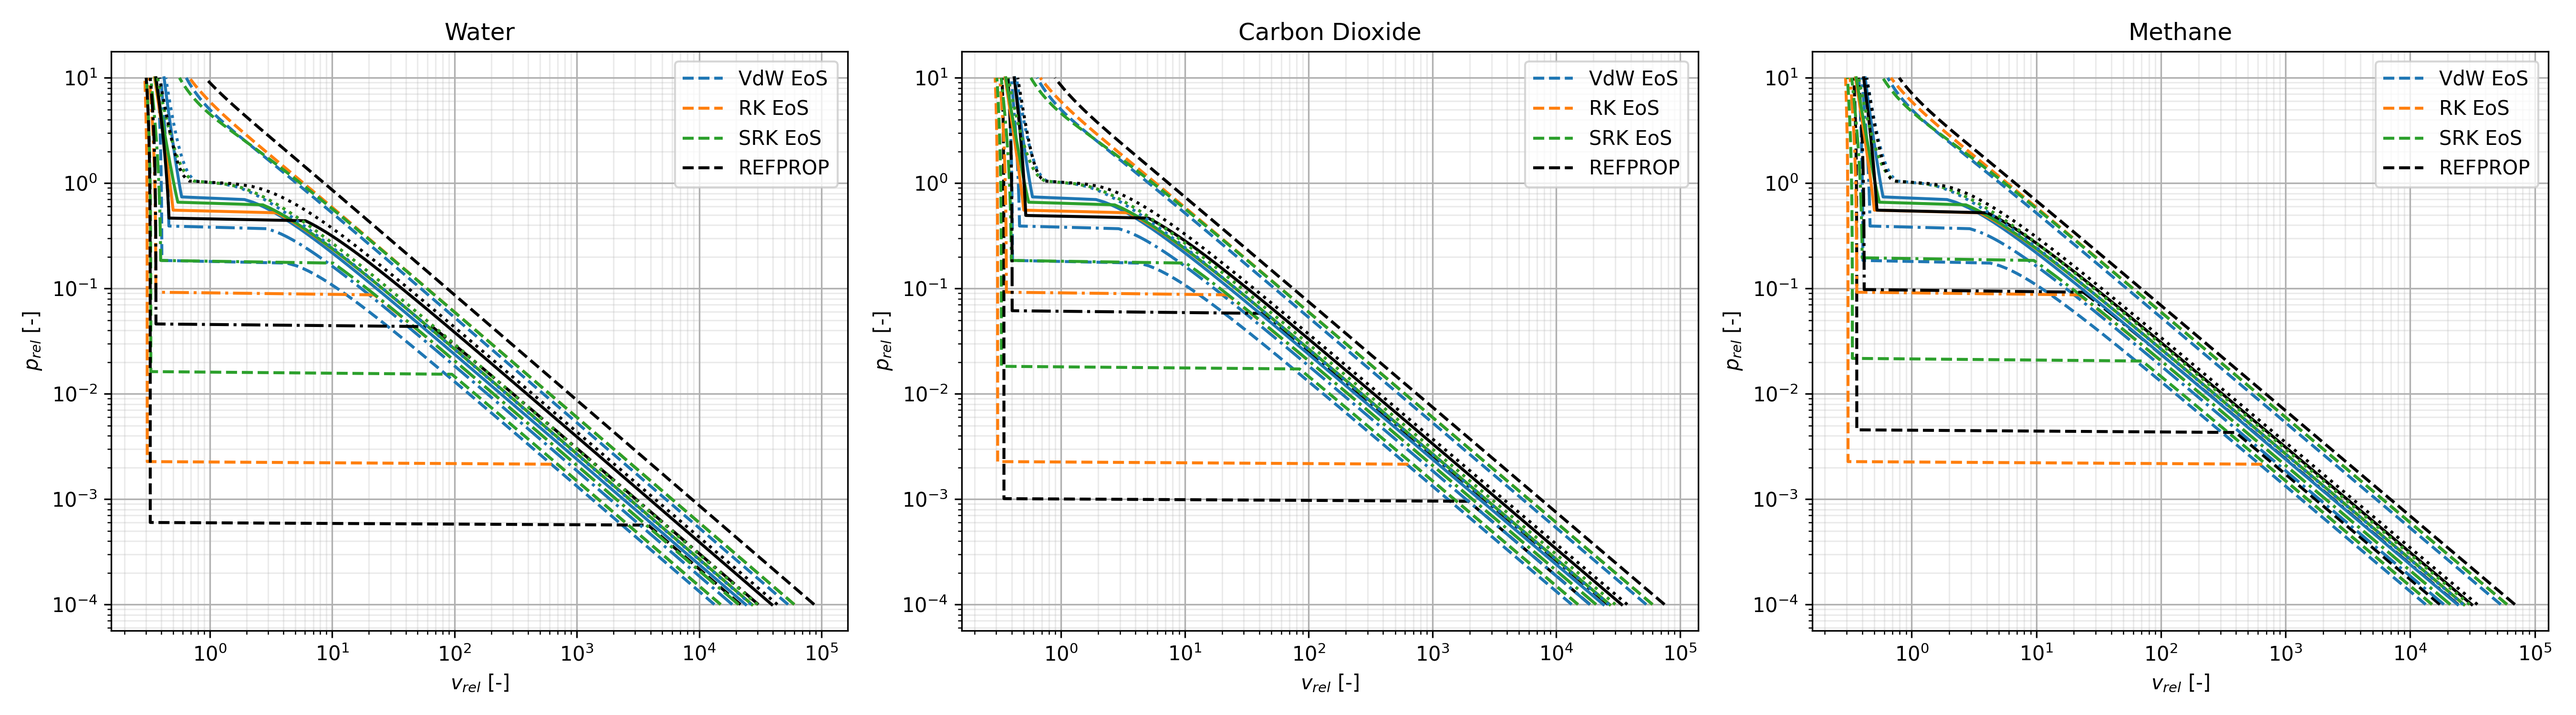
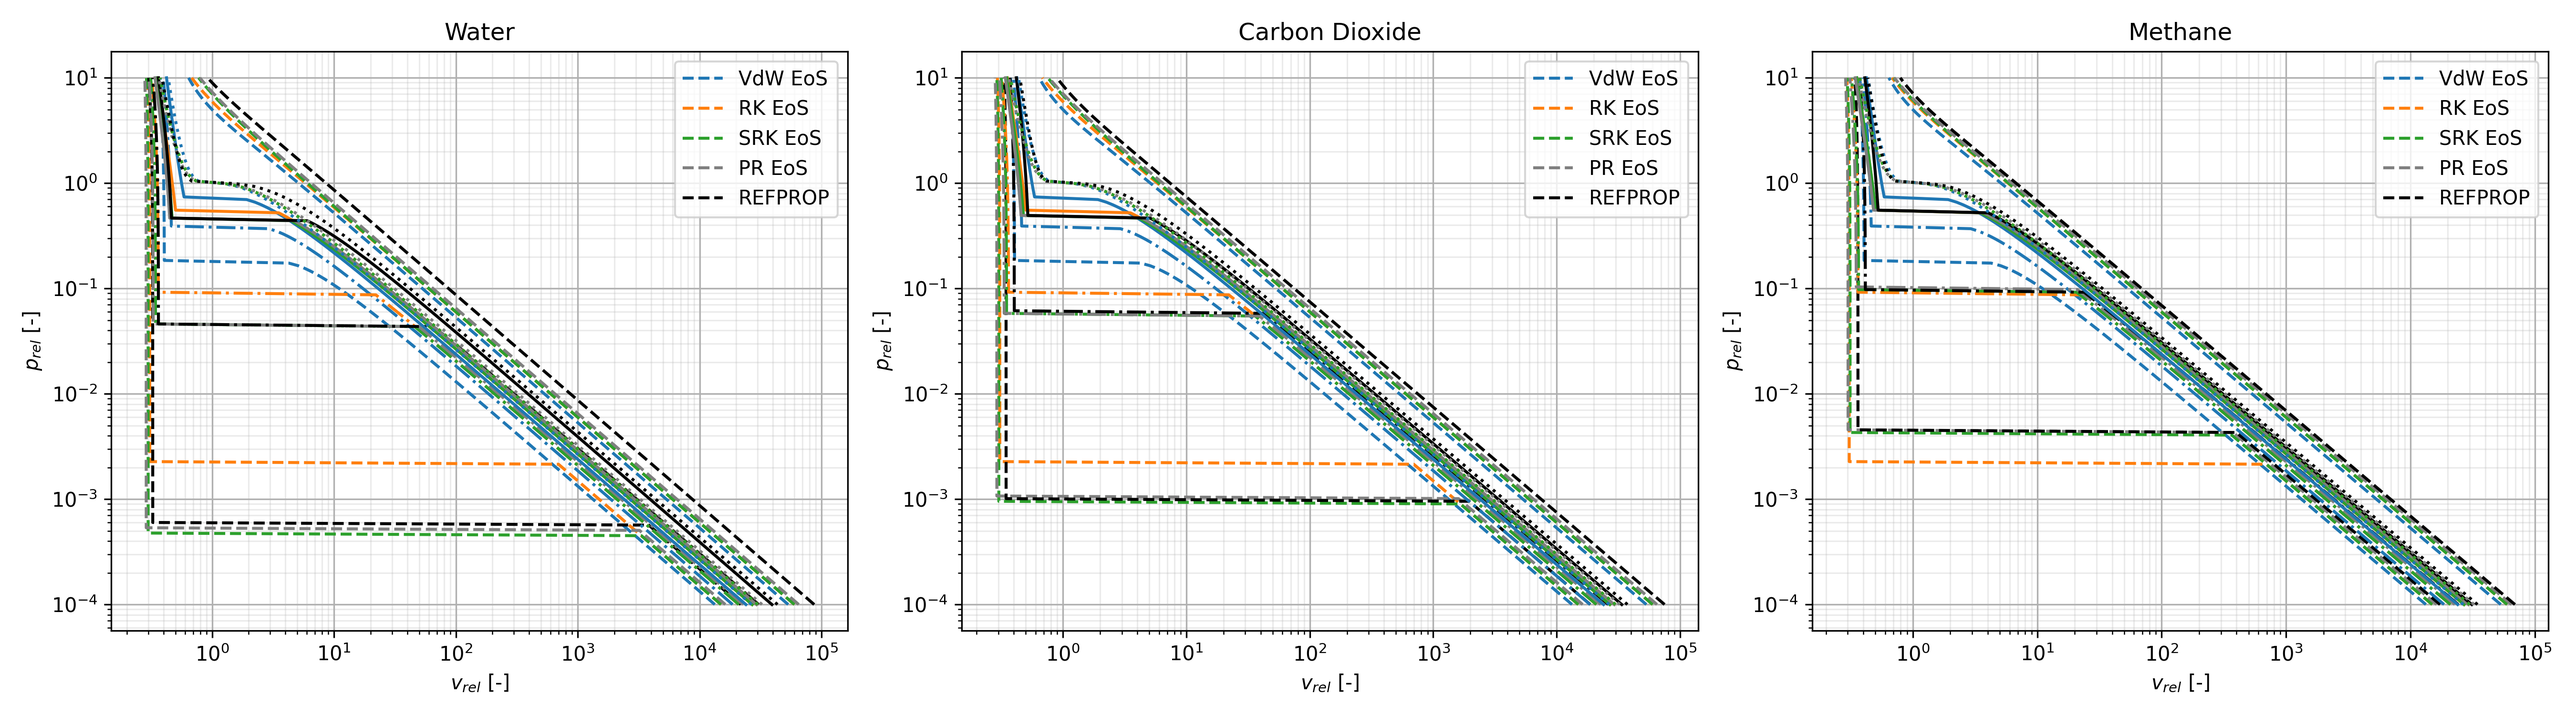
PR EoS Implemented

diff --git a/calculation/1 - EOS analysis/10 - EoS Comparison - Other.py b/calculation/1 - EOS analysis/10 - EoS Comparison - Other.py
@@ -1,7 +1,7 @@
 # %%-------------------------------------   IMPORT MODULES                      -------------------------------------> #
-from main_classes import VdWEOS, RKEOS, SRKEOS, PREOS
 from main_classes.constant import CALCULATION_DIR
 from REFPROPConnector import ThermodynamicPoint
+from main_classes import VdWEOS, RKEOS, SRKEOS
 import matplotlib.pyplot as plt
 from itertools import cycle
 from tqdm import tqdm
@@ -11,19 +11,19 @@ import os
 
 # %%-------------------------------------   INIT CALCULATIONS                   -------------------------------------> #
 n_points = 200
-t_mods = [0.5, 0.7, 0.9, 1, 2]
+t_mods = [0.5, 0.7, 0.9, 1.5, 2]
 p_rels = np.logspace(-4, 1, n_points)
 
 fluids = ["Water", "Carbon Dioxide", "Methane"]
 m_mols = [0.01801528, 0.04401, 0.01604]
 acntrs = [0.344, 0.239, 0.011]
 cps = [1864.84159, 845.846, 2230.12]
-eos_class = PREOS
+eos_class = RKEOS
 
 
 # %%-------------------------------------   CALCULATIONS                        -------------------------------------> #
 k = 0
-x_labels = ["h [kJ/kg]", "s [kJ/(kg K)]"]
+x_labels = ["R [J/(kg K)]", "cp [J/(kg K)]"]
 fig, axs = plt.subplots(len(x_labels), len(fluids), figsize=(6 * len(fluids), 5 * len(x_labels)), dpi=300)
 pbar = tqdm(desc="Calculating Points", total=n_points * len(t_mods) * len(fluids))
 
@@ -37,16 +37,22 @@ for fluid in fluids:
 
     tp.set_variable("T", t_crit)
     tp.set_variable("P", p_crit)
-    h_crit_rp = tp.get_variable("h")
-    s_crit_rp = tp.get_variable("s")
 
-    eos_fluid = eos_class(t_crit=t_crit, p_crit=p_crit, cp_ideal=cps[k], m_molar=m_mols[k], acntr=acntrs[k])
+    eos_fluid = eos_class(
+
+        t_crit=t_crit, p_crit=p_crit,
+        cp_ideal=tp.get_variable("CP0"),
+        m_molar=m_mols[k], acntr=acntrs[k]
+
+    )
     crit_state = eos_fluid.get_state(t=t_crit, p=p_crit)
 
-    for t_mod in [0.5, 0.7, 0.9, 1, 2]:
+    for t_mod in t_mods:
 
-        h_rels = np.zeros((2, n_points))
-        s_rels = np.zeros((2, n_points))
+        r_res = np.zeros((2, n_points))
+        cp_res = np.zeros((2, n_points))
+        dpdts = np.zeros((2, n_points))
+        dpdvs = np.zeros((2, n_points))
 
         t_curr = eos_fluid.t_crit * t_mod
 
@@ -56,40 +62,50 @@ for fluid in fluids:
 
             tp.set_variable("P", p_curr)
             tp.set_variable("T", t_curr)
-            h_res = tp.get_variable("h")
-            s_res = tp.get_variable("s")
             rho_res = tp.get_variable("rho")
 
             if rho_res < 0:
 
-                h_res = np.nan
-                s_res = np.nan
+                r_dag = np.nan
+                cp = np.nan
+                dpdt = np.nan
+                dpdv = np.nan
 
-            h_rels[0, i] = h_res - h_crit_rp
-            s_rels[0, i] = s_res - s_crit_rp
+            else:
+
+                dpdt = tp.get_derivative("P", "T", "rho")
+                dpdrho = tp.get_derivative("P", "rho", "T")
+                dpdv = - rho_res ** 2 * dpdrho
+
+                r_dag = (- t_curr * dpdt ** 2 / dpdv)
+                cp = (tp.get_variable("CP") - tp.get_variable("CP0"))
+
+            r_res[0, i] = r_dag
+            cp_res[0, i] = cp
+            dpdts[0, i] = dpdt
+            dpdvs[0, i] = dpdv
 
             curr_state = eos_fluid.get_state(p=p_curr, t=t_curr)
-            h_rels[1, i] = curr_state.h - crit_state.h
-            s_rels[1, i] = curr_state.s - crit_state.s
+            r_res[1, i] = curr_state.r
+            cp_res[1, i] = curr_state.cp - curr_state.fluid_solver.cp_ideal
+            dpdts[1, i] = curr_state.dpdt
+            dpdvs[1, i] = curr_state.dpdv
 
             pbar.update(1)
 
         style = next(styles)
 
-        h_rels = h_rels / 1e3
-        s_rels = s_rels / 1e3
-        dh = h_rels[1,0] - h_rels[0, 0]
-        line_rp = axs[0, k].plot(h_rels[0,:], p_rels, label="REFPROP", linestyle=style, color="black")
-        line_eos = axs[0, k].plot(h_rels[1,:] - dh, p_rels, label="RK EoS", linestyle=style, color="tab:orange")
+        line_rp = axs[0, k].plot(r_res[0,:], p_rels, label="REFPROP", linestyle=style, color="black")
+        line_eos = axs[0, k].plot(r_res[1,:], p_rels, label="RK EoS", linestyle=style, color="tab:orange")
 
-        ds = s_rels[1, 0] - s_rels[0, 0]
-        axs[1, k].plot(s_rels[0, :], p_rels, label="REFPROP", linestyle=style, color="black")
-        axs[1, k].plot(s_rels[1, :] - ds, p_rels, label="RK EoS", linestyle=style, color="tab:orange")
+        axs[1, k].plot(cp_res[0, :], p_rels, label="REFPROP", linestyle=style, color="black")
+        axs[1, k].plot(cp_res[1, :], p_rels, label="RK EoS", linestyle=style, color="tab:orange")
 
     lines = [line_rp[0], line_eos[0]]
     labs = [l.get_label() for l in lines]
 
     for j in range(len(x_labels)):
+
         axs[j, k].set_yscale("log")
         axs[j, k].grid(visible=True, which="major")
         axs[j, k].grid(visible=True, which="minor", linewidth=0.75, alpha=0.25)
@@ -98,14 +114,20 @@ for fluid in fluids:
         axs[j, k].set_title(fluid)
         axs[j, k].legend(lines, labs)
 
+    #axs[0, k].set_xlim([0, 1e7])
+    #axs[1, k].set_xlim([0, 1e7])
+
     k += 1
 
 
 pbar.close()
+
+
+# %%-------------------------------------   SAVE PLOT                           -------------------------------------> #
 plt.tight_layout()
 plt.show()
 
 
 # %%-------------------------------------   SAVE PLOT                           -------------------------------------> #
-filepath = os.path.join(CALCULATION_DIR, "1 - EOS analysis", "output", "8 - EoS Comparison - Enthalpy and Entropy.png")
+filepath = os.path.join(CALCULATION_DIR, "1 - EOS analysis", "output", "8 - EoS Comparison - Other.png")
 fig.savefig(filepath)

diff --git a/calculation/1 - EOS analysis/7 - EoS Comparison.py b/calculation/1 - EOS analysis/7 - EoS Comparison.py
@@ -1,7 +1,7 @@
 # %%-------------------------------------   IMPORT MODULES                      -------------------------------------> #
+from main_classes import VdWEOS, RKEOS, SRKEOS, PREOS
 from main_classes.constant import CALCULATION_DIR
 from REFPROPConnector import ThermodynamicPoint
-from main_classes import VdWEOS, RKEOS, SRKEOS
 import matplotlib.pyplot as plt
 from itertools import cycle
 from tqdm import tqdm
@@ -42,11 +42,12 @@ for fluid in fluids:
     vdw_fluid = VdWEOS(t_crit=t_crit, p_crit=p_crit, cp_ideal=cps[k], m_molar=m_mols[k], acntr=acntrs[k])
     srk_fluid = SRKEOS(t_crit=t_crit, p_crit=p_crit, cp_ideal=cps[k], m_molar=m_mols[k], acntr=acntrs[k])
     rk_fluid = RKEOS(t_crit=t_crit, p_crit=p_crit, cp_ideal=cps[k], m_molar=m_mols[k], acntr=acntrs[k])
+    pr_fluid = PREOS(t_crit=t_crit, p_crit=p_crit, cp_ideal=cps[k], m_molar=m_mols[k], acntr=acntrs[k])
     k += 1
 
     for t_mod in [0.5, 0.7, 0.9, 1, 2]:
 
-        v_rels = np.zeros((4, n_points))
+        v_rels = np.zeros((5, n_points))
         t_curr = vdw_fluid.t_crit * t_mod
 
         for i in range(len(p_rels)):
@@ -64,7 +65,8 @@ for fluid in fluids:
             v_rels[0, i] = vdw_fluid.v(t=t_curr, p=p_curr) / vdw_fluid.v_crit
             v_rels[1, i] = rk_fluid.v(t=t_curr, p=p_curr) / rk_fluid.v_crit
             v_rels[2, i] = srk_fluid.v(t=t_curr, p=p_curr) / srk_fluid.v_crit
-            v_rels[3, i] = v_real / v_crit_rp
+            v_rels[3, i] = pr_fluid.v(t=t_curr, p=p_curr) / pr_fluid.v_crit
+            v_rels[4, i] = v_real / v_crit_rp
 
             pbar.update(1)
 
@@ -72,7 +74,8 @@ for fluid in fluids:
         line_vdw = ax.plot(v_rels[0,:], p_rels, label="VdW EoS", linestyle=style, color="tab:blue")
         line_rk = ax.plot(v_rels[1,:], p_rels, label="RK EoS", linestyle=style, color="tab:orange")
         line_srk = ax.plot(v_rels[2,:], p_rels, label="SRK EoS", linestyle=style, color="tab:green")
-        line_rp = ax.plot(v_rels[3,:], p_rels, label="REFPROP", linestyle=style, color="black")
+        line_pr = ax.plot(v_rels[3,:], p_rels, label="PR EoS", linestyle=style, color="tab:gray")
+        line_rp = ax.plot(v_rels[4,:], p_rels, label="REFPROP", linestyle=style, color="black")
 
     ax.set_xscale("log")
     ax.set_yscale("log")
@@ -82,7 +85,7 @@ for fluid in fluids:
     ax.set_ylabel("$p_{rel}$ [-]")
     ax.set_title(fluid)
 
-    lines = [line_vdw[0], line_rk[0], line_srk[0], line_rp[0]]
+    lines = [line_vdw[0], line_rk[0], line_srk[0], line_pr[0], line_rp[0]]
     labs = [l.get_label() for l in lines]
     ax.legend(lines, labs)
 

diff --git a/main_classes/cubic_eos.py b/main_classes/cubic_eos.py
@@ -593,7 +593,7 @@ class FluidState:
 
         if self.__r is None:
 
-            self.__r = - self.__t * self.dpdt ** 2 / self.dpdv
+            self.__r = (- self.__t * self.dpdt ** 2 / self.dpdv)
 
         return self.__r
 
@@ -639,15 +639,16 @@ class FluidState:
 
         if self.__dpdv is None:
 
-            eta_r1 = self.eta - self.fluid_solver.r_1
-            eta_r2 = self.eta - self.fluid_solver.r_2
-            r1r2 = self.fluid_solver.r1r2
+            b = self.fluid_solver.b
+            r1 = self.fluid_solver.r_1
+            r2 = self.fluid_solver.r_2
 
-            a0 = self.p / self.beta
-            a1 = 1 / ((self.eta - 1) ** 2)
-            a2 = (2 * self.eta + r1r2) / ((eta_r1 * eta_r2) ** 2)
+            a_0 = 1 / (self.eta - 1) ** 2
+            a_1 = 2 * self.eta + (r1 + r2)
+            a_2 = ((self.eta - r1) * (self.eta - r2))**2
+            a_3 = self.fluid_solver.r_spc * self.t / b ** 2
 
-            self.__dpdv = a0 * (a2 * self.alpha - a1)
+            self.__dpdv = (a_1 / a_2 * self.alpha - a_0) * a_3
 
         return self.__dpdv
 
@@ -748,18 +749,18 @@ class FluidState:
         if self.__u is None:
 
             eta = self.eta
-            eta_r1 = eta - self.fluid_solver.r_1
-            eta_r2 = eta - self.fluid_solver.r_2
+            r_1 = self.fluid_solver.r_1
+            r_2 = self.fluid_solver.r_2
 
             try:
 
-                if eta_r1 == eta_r2:
+                if r_1 == r_2:
 
-                    self.__u = 1 / (- self.fluid_solver.b * eta_r1)
+                    self.__u = 1 / (- self.fluid_solver.b * (eta - r_1))
 
                 else:
 
-                    self.__u = np.log(eta_r1 / eta_r2) / (self.fluid_solver.b * (eta_r2 - eta_r1))
+                    self.__u = np.log((eta - r_1) / (eta - r_2)) / (self.fluid_solver.b * (r_1 - r_2))
 
             except:
 

diff --git a/main_classes/subclasses/peng_robinson.py b/main_classes/subclasses/peng_robinson.py
@@ -1,8 +1,8 @@
-from main_classes.cubic_eos import CubicEOS, get_real_res
+from main_classes.cubic_eos import CubicEOS
 import numpy as np
 
 
-class SRKEOS(CubicEOS):
+class PREOS(CubicEOS):
 
     def a(self, t):
 
@@ -20,16 +20,13 @@ class SRKEOS(CubicEOS):
 
     def init_coefficient(self):
 
-        self.z_crit = 1 / 3
+        self.z_crit = 0.307401
         self.v_crit = self.z_crit * self.r_spc * self.t_crit / self.p_crit
 
-        self.r_1 = 0
-        self.r_2 = -1
-        self.__f_acntr = 0.48 + 1.57 * self.acntr - 0.176 * self.acntr ** 2
+        self.r_1 = -np.sqrt(2) - 1
+        self.r_2 = np.sqrt(2) - 1
+        self.__f_acntr = 0.37464 + 1.5422 * self.acntr - 0.26992 * self.acntr ** 2
 
         # v_crit_0 = self.v_crit
-        self.a_0 = (np.power(2, 1/3) - 1) / 9 * (self.r_spc * self.t_crit) ** 2 / self.p_crit
-        self.b = (np.power(2, 1/3) - 1) / 3 * self.r_spc * self.t_crit / self.p_crit
-
-        self.a_0 = 0.42747 * (self.r_spc * self.t_crit) ** 2 / self.p_crit
-        self.b = 0.08664 * self.r_spc * self.t_crit / self.p_crit
+        self.a_0 = 0.45724 * (self.r_spc * self.t_crit) ** 2 / self.p_crit
+        self.b = 0.07780 * self.r_spc * self.t_crit / self.p_crit

diff --git a/calculation/3 - System Calculation/0 - Old/2023-05-03 - Sub-Critical Use - Adimensionalization.py b/calculation/3 - System Calculation/0 - Old/2023-05-03 - Sub-Critical Use - Adimensionalization.py
@@ -1,5 +1,6 @@
 # %%-------------------------------------   IMPORT MODULES                      -------------------------------------> #
-from main_classes.rk_fluid_classes import RKFluid, evaluate_system
+from main_classes.geothermal_system import evaluate_system
+from main_classes.subclasses.redlich_kwong import RKEOS
 import matplotlib.pyplot as plt
 from tqdm import tqdm
 import numpy as np
@@ -18,7 +19,7 @@ pbar = tqdm(desc="Calculating Points", total=len(t_rels) * len(depths) * len(t_c
 
 for k in range(len(t_crits)):
 
-    fluid = RKFluid(
+    fluid = RKEOS(
 
         p_crit=1e7,
         t_crit=t_crits[k],
@@ -37,8 +38,7 @@ for k in range(len(t_crits)):
             t_inj = t_rels[i] * fluid.t_crit
             t_rock = t_inj + grad * depth / 1000
 
-            liq_state = fluid.get_sat_state(t=t_inj, liquid=True)
-            vap_state = fluid.get_sat_state(t=t_inj, liquid=False)
+            liq_state, vap_state = fluid.get_sat_state(t=t_inj, which="both")
 
             if p_mult == 1:
 

diff --git a/main_classes/subclasses/__init__.py b/main_classes/subclasses/__init__.py
@@ -1,3 +1,4 @@
 from .van_der_walls import VdWEOS
 from .redlich_kwong import RKEOS
+from .peng_robinson import PREOS
 from .soave import SRKEOS

diff --git a/main_classes/__init__.py b/main_classes/__init__.py
@@ -1,1 +1,1 @@
-from .subclasses import RKEOS, SRKEOS, VdWEOS
+from .subclasses import RKEOS, SRKEOS, VdWEOS, PREOS
